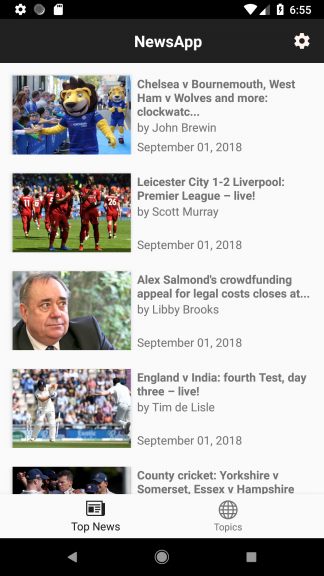
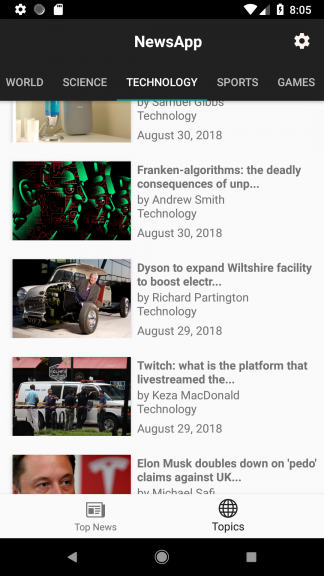
Section Modifications.

diff --git a/app/src/main/java/com/example/mango/newsapp/NewsRecyclerViewAdapter.java b/app/src/main/java/com/example/mango/newsapp/NewsRecyclerViewAdapter.java
@@ -36,11 +36,11 @@ public class NewsRecyclerViewAdapter extends RecyclerView.Adapter<NewsRecyclerVi
     public void onBindViewHolder(NewsHolder holder, int position) {
         final News currentNews = allNews.get(position);
         holder.newsTimeTextView.setText(currentNews.getNewsDate());
-        if(currentNews.getNewsHeadLine().length() > 60)
-            holder.newsHeadlineTextView.setText(currentNews.getNewsHeadLine().substring(0, 60).toString() + "...");
+        if(currentNews.getNewsHeadLine().length() > 50)
+            holder.newsHeadlineTextView.setText(currentNews.getNewsHeadLine().substring(0, 50).toString() + "...");
         else
             holder.newsHeadlineTextView.setText(currentNews.getNewsHeadLine());
-        holder.newsCategoryTextView.setText(context.getString(R.string.news_author_prifix) + " " + currentNews.getNewsAuthor());
+        holder.newsCategoryTextView.setText(context.getString(R.string.news_author_prifix) + " " + currentNews.getNewsAuthor() + "\n" + currentNews.getNewsSection());
         if(currentNews.getNewsThumbline() != null)
             Picasso.get().load(currentNews.getNewsThumbline()).into(holder.newsImageView);
 

diff --git a/app/src/main/java/com/example/mango/newsapp/News.java b/app/src/main/java/com/example/mango/newsapp/News.java
@@ -17,6 +17,7 @@ public class News {
     private String newsHeadLine;
     private String newsWebUrl;
     private String newsDate;
+    private String newsSection;
     private String newsThumbline;;
     private String newsAuthor;
 
@@ -40,6 +41,8 @@ public class News {
         return newsAuthor;
     }
 
+    public String getNewsSection() { return  newsSection; }
+
     private News setNewsData(JSONObject json) throws  JSONException, ParseException{
         this.newsHeadLine = json.getString("webTitle");
         SimpleDateFormat sdf = new SimpleDateFormat("yyyy-MM-dd HH:mm:ss");
@@ -48,6 +51,7 @@ public class News {
         if(json.getJSONObject("fields").isNull("thumbnail") == false)
             this.newsThumbline = json.getJSONObject("fields").getString("thumbnail");
         this.newsWebUrl = json.getString("webUrl");
+        this.newsSection = json.getString("sectionName");
         this.newsAuthor = json.getJSONArray("tags").getJSONObject(0).getString("webTitle");
         return this;
     }
